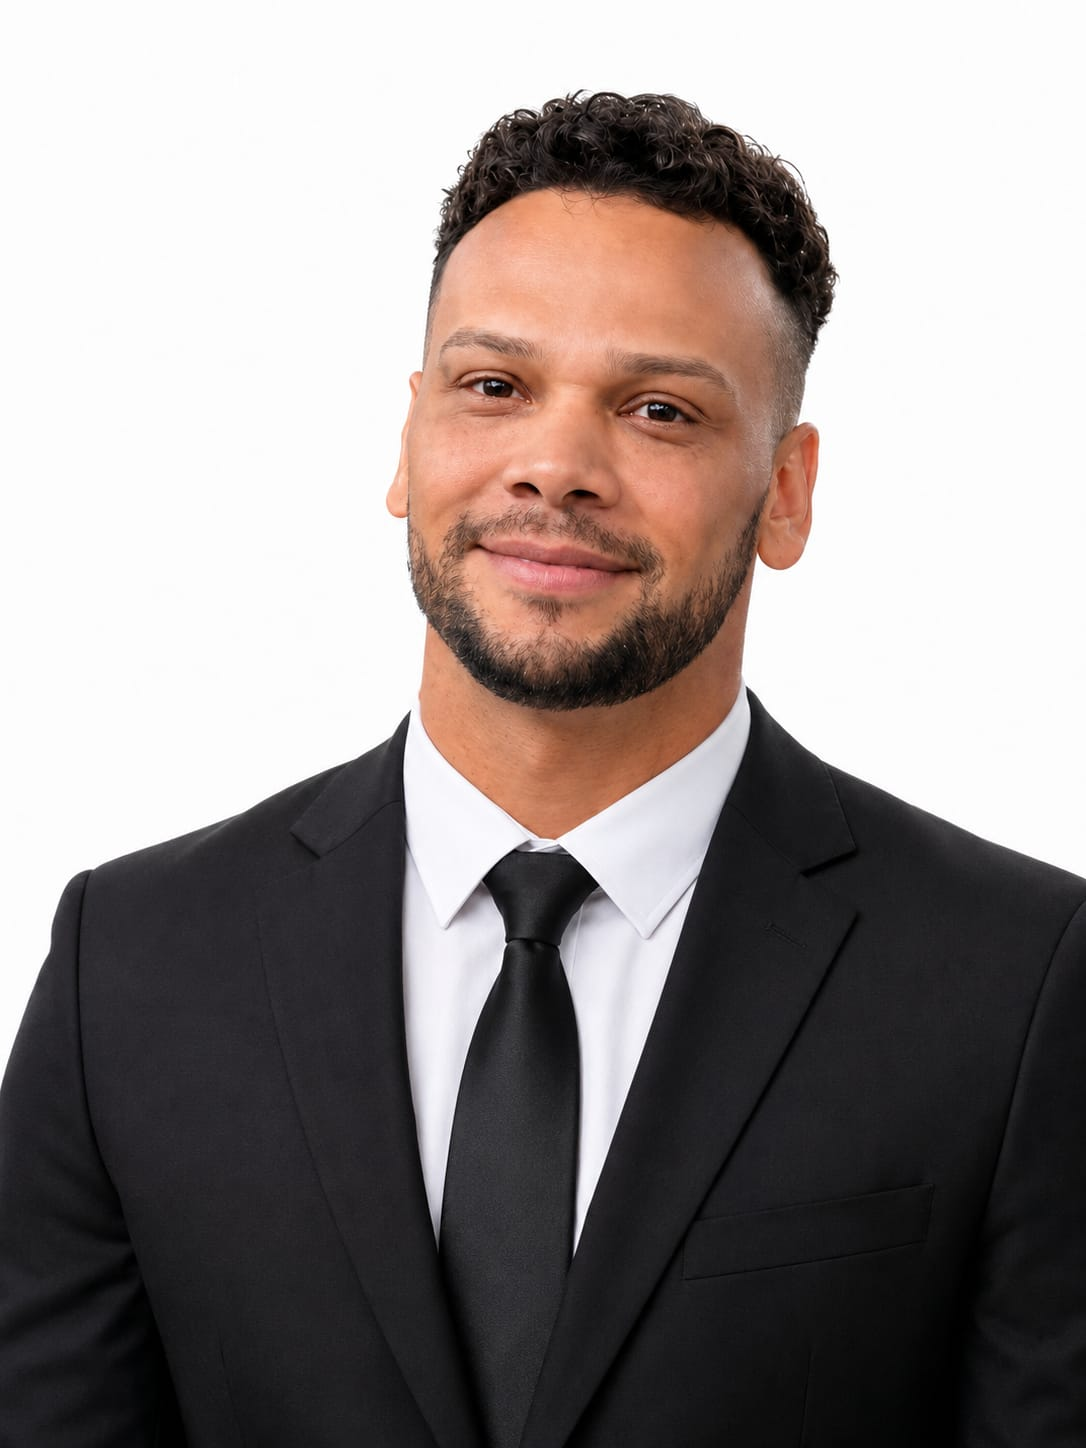
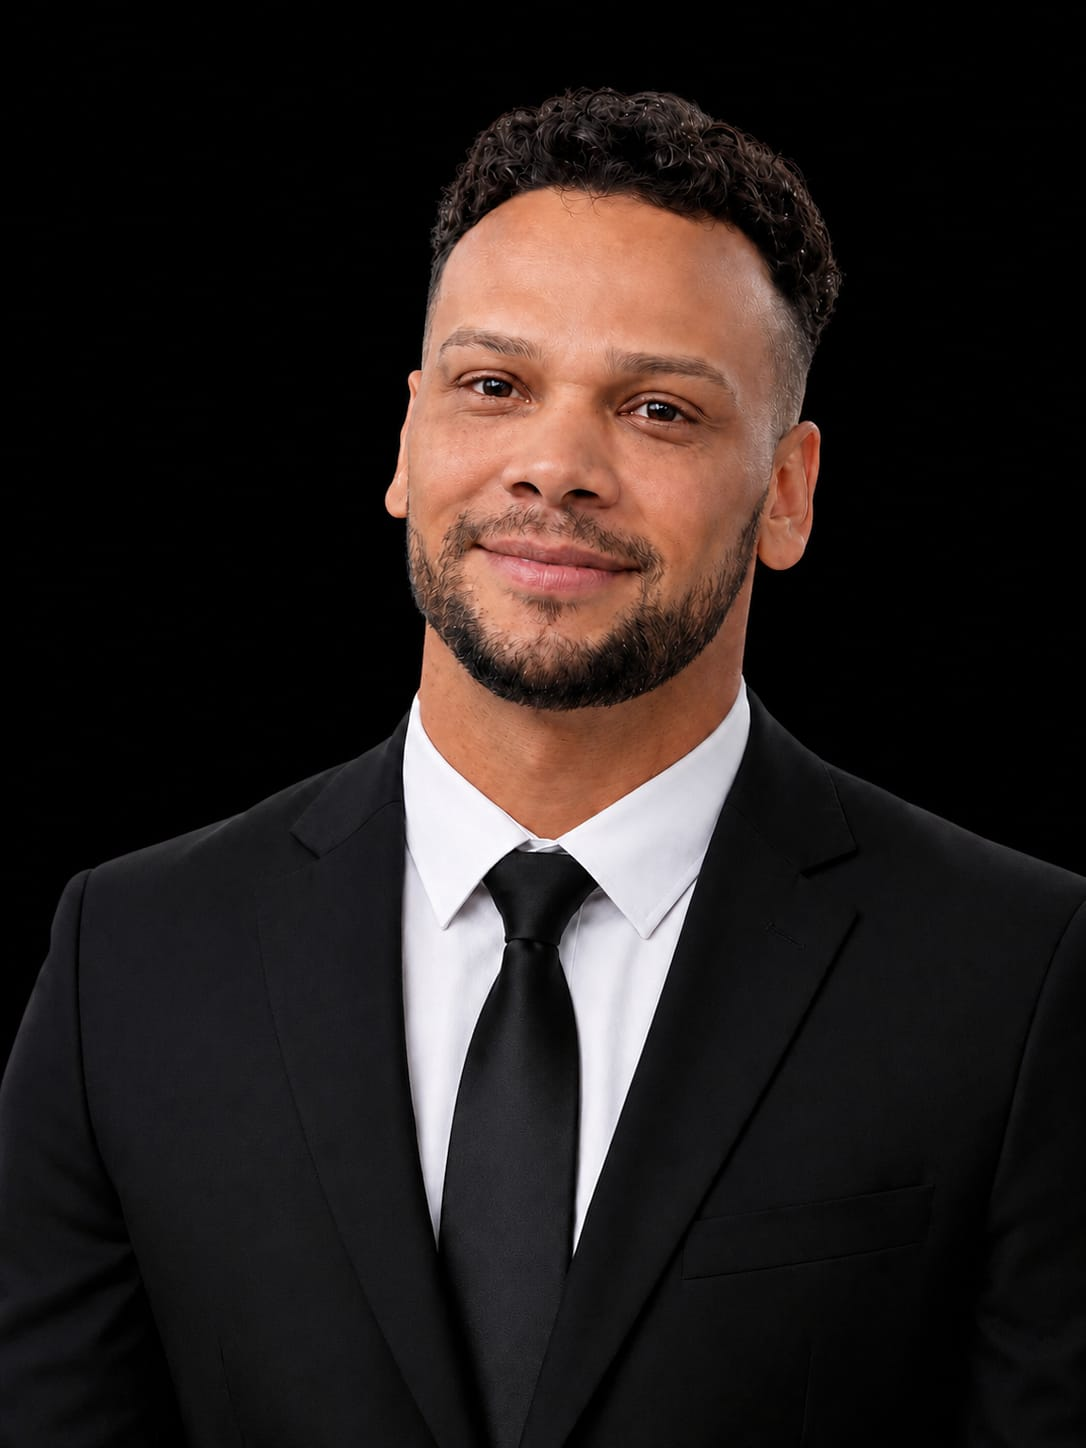
mao

diff --git a/src/components/site/Navbar.tsx b/src/components/site/Navbar.tsx
@@ -8,7 +8,7 @@ const links = [
   { label: "Servicios", href: "#servicios" },
   { label: "Proyectos", href: "#proyectos" },
   { label: "Proceso", href: "#proceso" },
-  { label: "Sobre mí", href: "#sobre-mi" },
+  { label: "Sobre nosotros", href: "#sobre-nosotros" },
   { label: "Contacto", href: "#contacto" },
 ];
 
